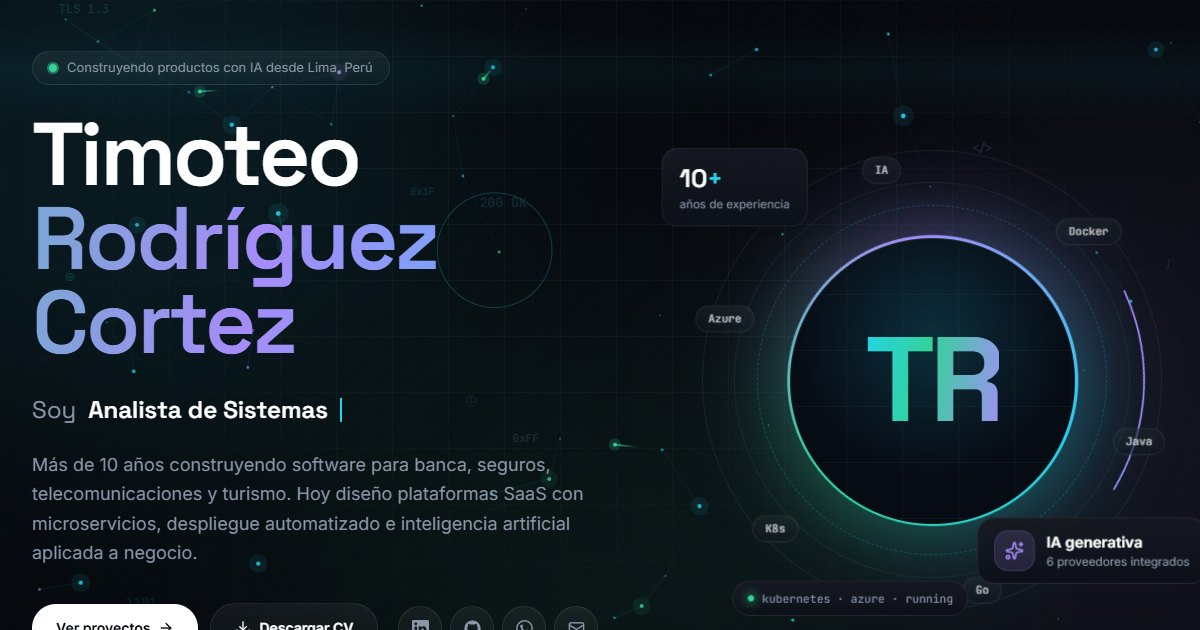
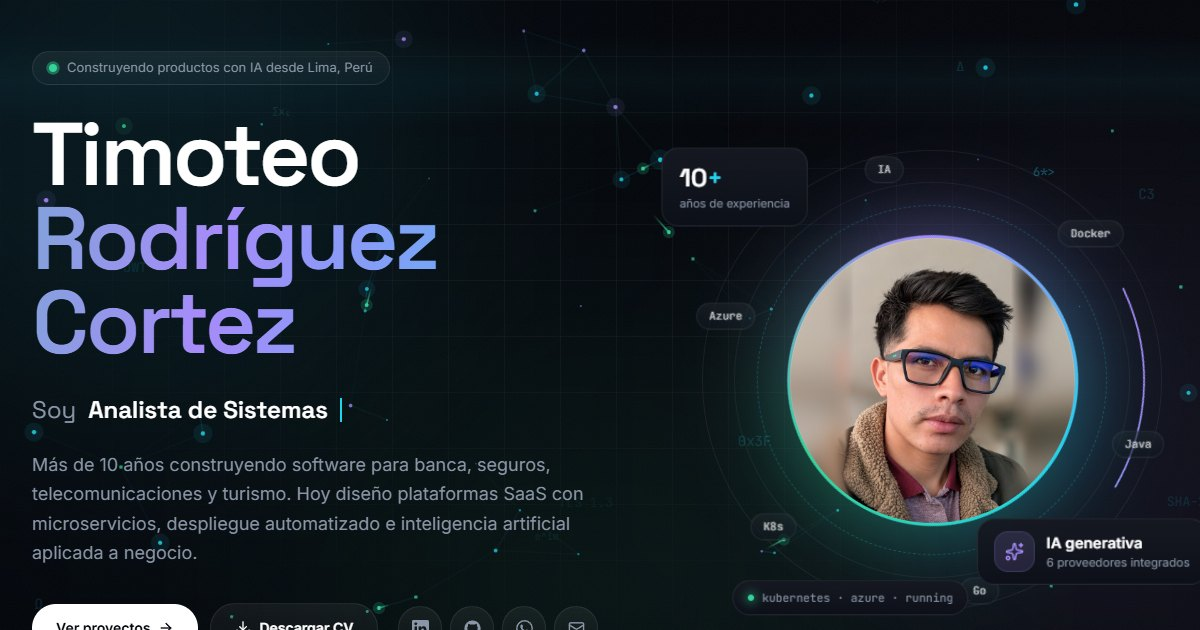
Agrega foto de perfil y actualiza la imagen de vista previa

diff --git a/src/data/profile.ts b/src/data/profile.ts
@@ -6,7 +6,7 @@ export const profile = {
   lastName: "Rodríguez Cortez",
   initials: "TR",
   // Coloca tu foto en /public (por ejemplo public/foto.jpg) y escribe aquí "foto.jpg".
-  photo: "",
+  photo: "foto.jpg",
   roles: [
     "Analista de Sistemas",
     "Desarrollador Full Stack",
